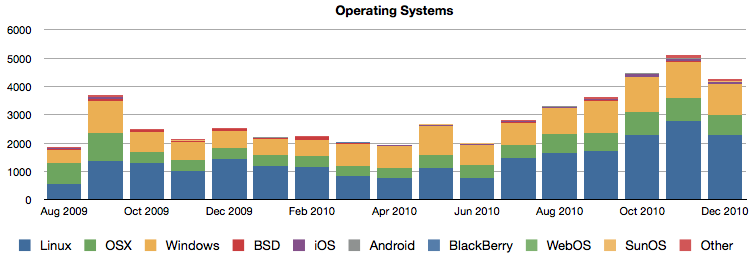
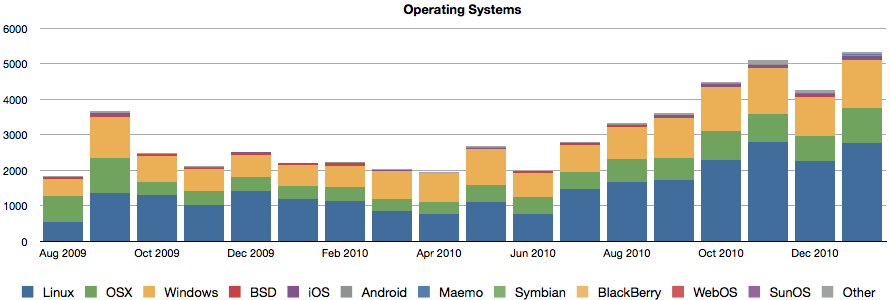
January 2011 snapshot

diff --git a/public_html/stats/index.html b/public_html/stats/index.html
@@ -21,8 +21,10 @@
       <br />
       Visits to taskwarrior.org and tasktools.org.
 
-      The recent uptrend is due to the Wikipedia page.
-      The November peak is due to the release of 1.9.3.
+      Only about 5% of the traffic is due to the Wikipedia page now, and
+      something else is causing this.
+
+      The December dip is probably holiday-related.
       <br />
       <br />
       <br />
@@ -39,6 +41,10 @@
       We have no explanation for the December spike in SourceForge downloads.
       <br />
       <br />
+      January 2011 was the fifth best month for downloads, despite no release,
+      but is still falling after the 1.9.3 spike.
+      <br />
+      <br />
       <br />
     </p>
     <p>
@@ -50,8 +56,7 @@
       a complete rewrite.
       <br />
       <br />
-      Commits are down due to holidays, and a split of focus between task and
-      taskd.
+      Commits are down due to a split of focus between task and taskd.
       <br />
       <br />
       <br />
@@ -75,13 +80,14 @@
       <img src="bug-rates.png" />
       <br />
       <br />
-      The erratic early bug find rate is probably due to two factors: a small
-      test suite with limited coverage, and a sudden increase in the number of
-      users.
+      The find rate and fix rate usually track each other well, except in the
+      lead up to a release, where the testing is greater.
 
-      The fix rate closely matches the find rate, which means that we are very
-      responsive to bugs, and the number of outstanding bugs remains fairly
-      constant.
+      The delay between finding and fixing a bug is represented by a horizontal
+      shift in the fix rate relative to the find rate.
+
+      That would indicate that we are shipping with more and more known bugs,
+      which is not good.
     </p>
     <p>
       <br />
@@ -96,10 +102,7 @@
       that will probably go to zero and stay there.
     </p>
     <p>
-      There is also the difference between a gap in functionality (which is easy
-      to spot) and a lack of advanced features (which may not occur to people).
-      An example of this is the recent feedback on the proposed burndown chart,
-      which stated "did not realize that I would like/want this until I saw it".
+      We have no explanation for the recent uptrend.
     </p>
     <p>
       <br />
@@ -117,8 +120,9 @@
       Someone is using it, and its popularity is growing despite no effort to
       promote it.
 
-      Once we include the task-update.sh script in the tarball (which uses
-      tasktools.org/latest), this number is expected to rise.
+      Once we include the task-update.sh script in the tarball or on the site as
+      an add-on (which uses tasktools.org/latest), this number is expected to
+      rise.
       <br />
       <br />
       <br />
@@ -139,7 +143,10 @@
       <br />
       <br />
       This is the distribution of operating systems for our site visitors.
-      It appears that most growth is Linux-based.
+      It appears that the growth is mostly Linux-based.
+      <br />
+      <br />
+      We are beginning to see Maemo, Symbian and Android visitors.
       <br />
       <br />
       <br />
